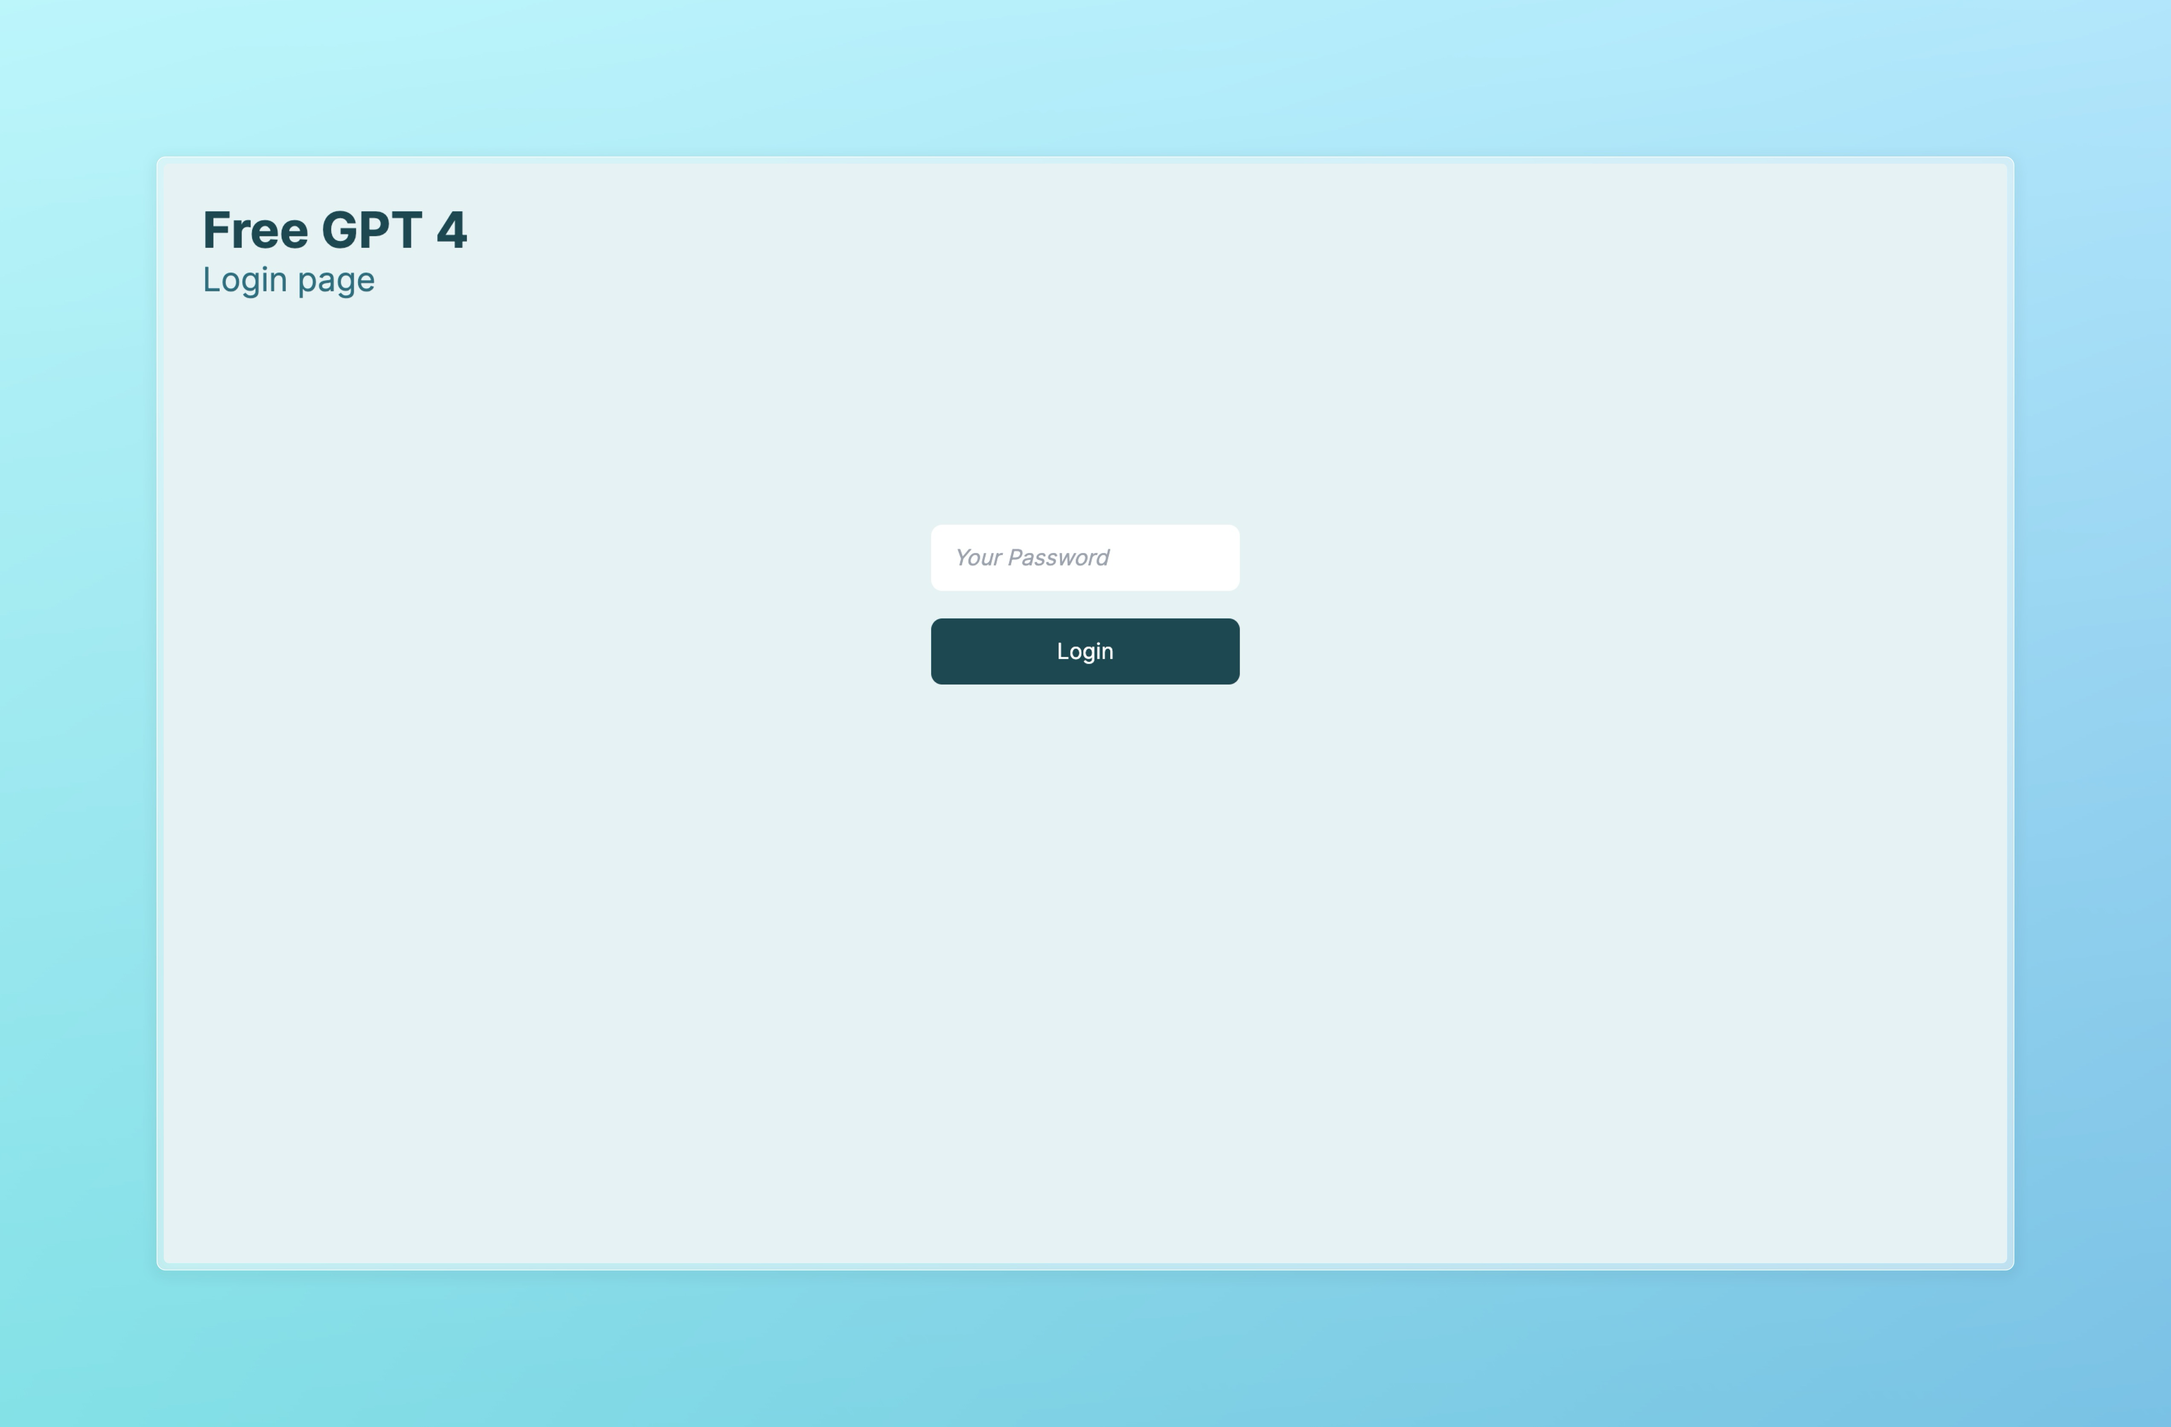
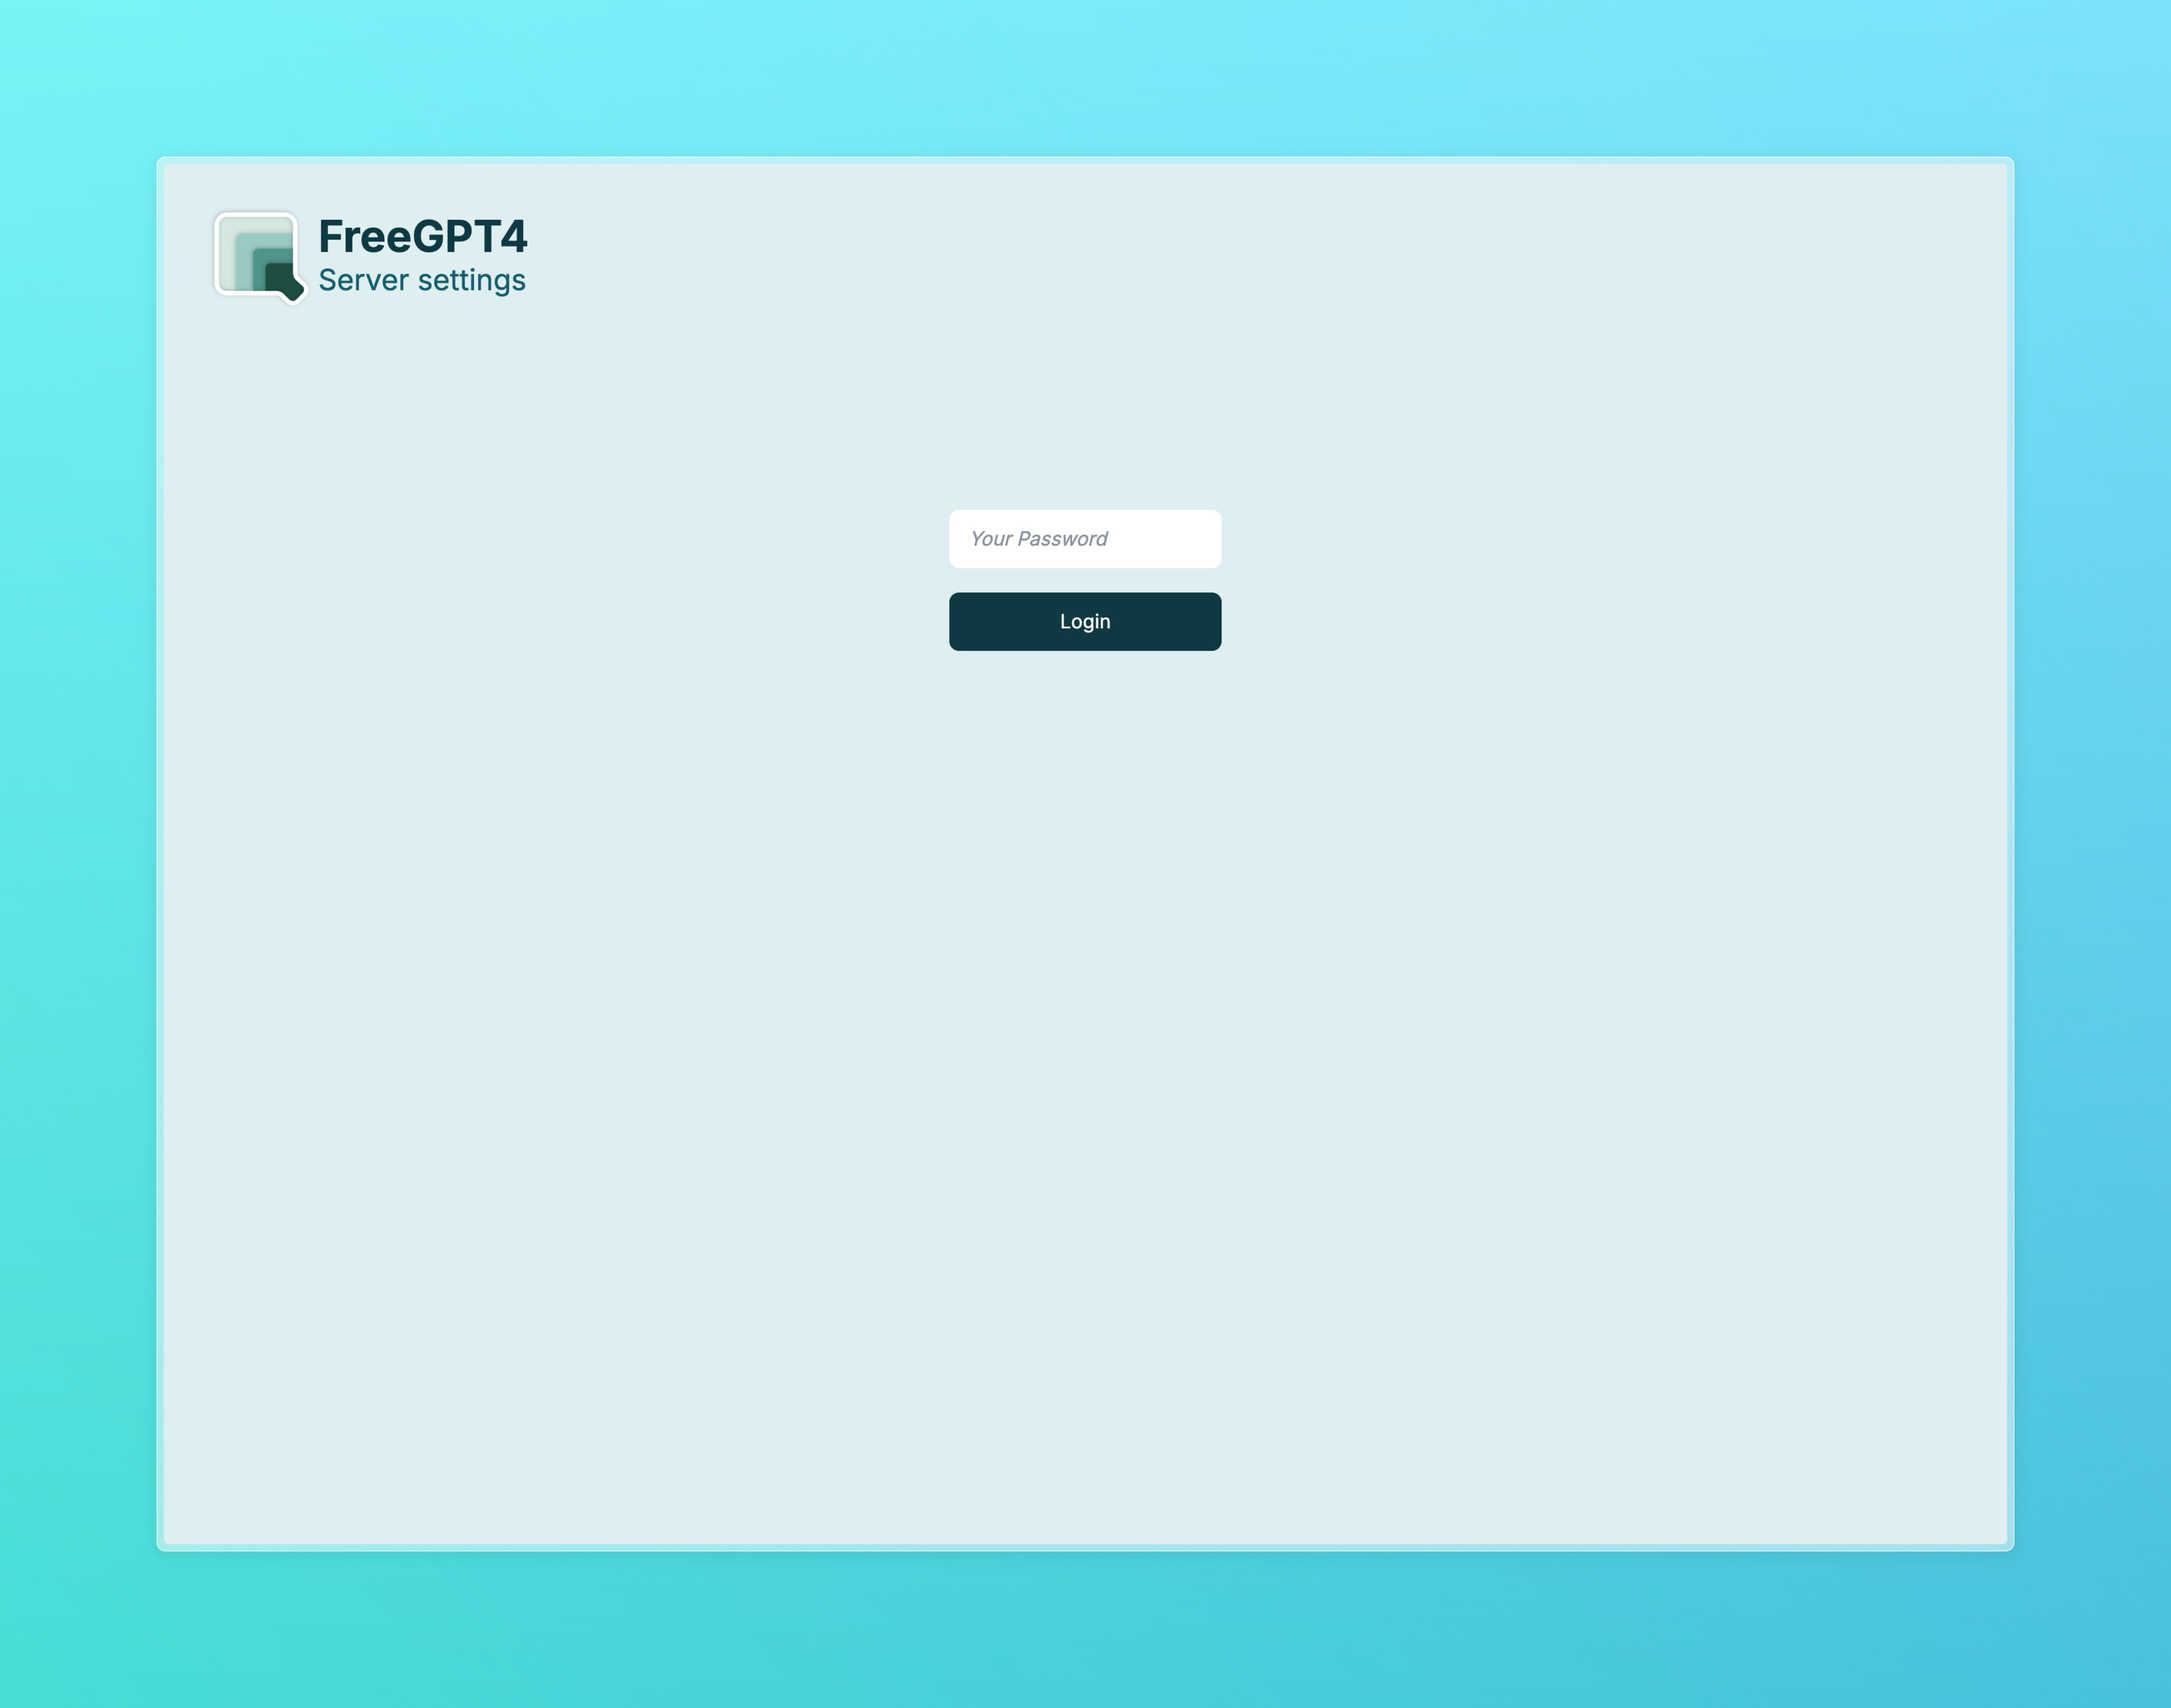
ReadMe update and graphical fixes

diff --git a/src/templates/settings.html b/src/templates/settings.html
@@ -93,7 +93,7 @@
                     {% if data['token']|length > 0 %}
                     <span id="warning_1" class="text-sm blue inline-block">
                     {% else %}
-                    <span id="warning_1" class="text-sm blue inline-block hidden" hidden>
+                    <span id="warning_1" class="text-sm blue inline-block hidden">
                     {% endif %}
                         <b>Your Token: </b> <i id="token_text" onclick="copyTextToClipboardFromName('token');">{{ data['token'] }}</i>
                         <img id="copy_icon" src="{{ url_for('static', filename='img/copy(Gregor_Cresnar).png') }}" width="16" class="inline-block" alt="Copy" onclick="copy('token', this.id, 'Copied!');"/>
@@ -101,16 +101,16 @@
                 </td>
                 <td class="py-1 fond-bold inter darkblue text-lg">
                 {% if data['token'] %}
-                <input type="radio" id="off_rad_3" name="private_mode" value="false" hidden oninput="turnOff('on_3', 'off_3', 'set_3'); hideElement('warning_1'); showElement('warning_0');">
+                <input type="radio" id="off_rad_3" name="private_mode" value="false" hidden oninput="turnOff('on_3', 'off_3', 'set_3'); hideWarning('warning_1'); showElement('warning_0');">
                     <label for="off_rad_3" id="off_3" class="label_gray"><b>OFF</b></label>
                     <p class="inline-block mx-1"> - </p>
-                    <input type="radio" id="on_rad_3" name="private_mode" value="true" hidden oninput="turnOn('on_3', 'off_3', 'set_3'); showElement('warning_1'); hideElement('warning_0'); createToken('token_text')" checked>
+                    <input type="radio" id="on_rad_3" name="private_mode" value="true" hidden oninput="turnOn('on_3', 'off_3', 'set_3'); showWarning('warning_1'); hideElement('warning_0'); createToken('token_text')" checked>
                     <label for="on_rad_3" id="on_3" class="label_green"><b>ON</b></label>
                 {% else %}
-                    <input type="radio" id="off_rad_3" name="private_mode" value="false" hidden oninput="turnOff('on_3', 'off_3', 'set_3'); hideElement('warning_1'); showElement('warning_0');" checked>
+                    <input type="radio" id="off_rad_3" name="private_mode" value="false" hidden oninput="turnOff('on_3', 'off_3', 'set_3'); hideWarning('warning_1'); showElement('warning_0');" checked>
                     <label for="off_rad_3" id="off_3" class="label_red"><b>OFF</b></label>
                     <p class="inline-block mx-1"> - </p>
-                    <input type="radio" id="on_rad_3" name="private_mode" value="true" hidden oninput="turnOn('on_3', 'off_3', 'set_3'); showElement('warning_1'); hideElement('warning_0'); createToken('token_text')">
+                    <input type="radio" id="on_rad_3" name="private_mode" value="true" hidden oninput="turnOn('on_3', 'off_3', 'set_3'); showWarning('warning_1'); hideElement('warning_0'); createToken('token_text')">
                     <label for="on_rad_3" id="on_3" class="label_gray"><b>ON</b></label>
                 {% endif %}
                 </td>

diff --git a/src/templates/login.html b/src/templates/login.html
@@ -14,10 +14,19 @@
 </head>
 <body>
     {% block content %}
-    <div class="m-7">
-        <h1 class="title font-bold inter darkblue text-4xl">Free GPT 4</h1>
-        <h2 class="title blue text-2xl">Login page</h2>
-    </div>
+    <!-- Logo on the left and title on the right -->
+    <table class="w-50 m-7">
+        <tr>
+            <td class="m-7">
+                <img src="{{ url_for('static', filename='img/favicon(Nicoladipa).png') }}" width="96" class="inline-block" alt="Logo">
+            </td>
+            <td class="m-7">
+                <h1 class="title font-bold inter darkblue text-4xl">FreeGPT4</h1>
+                <h2 class="title blue
+                text-2xl">Server settings</h2>
+            </td>
+        </tr>
+    </table>
 
     <div class="flex justify-center w-screen h-96">
         <div class="flex items-center">

diff --git a/src/static/js/script.js b/src/static/js/script.js
@@ -36,6 +36,16 @@ function hideElement(idToHide) {
   element.hidden = true;
 }
 
+// Hides a composed warning
+function hideWarning(idToHide) {
+  document.getElementById(idToHide).classList.add("hidden");
+}
+
+// Shows a composed warning
+function showWarning(idToShow) {
+  document.getElementById(idToShow).classList.remove("hidden");
+}
+
 // Copies the text in the given id to the clipboard
 function copyTextToClipboardFromName(name) {
   var copyText = document.getElementsByName(name)[0].value;

diff --git a/README.md b/README.md
@@ -21,8 +21,8 @@ FreeGPT4-WEB-API is a python server that allows you to have a self-hosted GPT-4 
 ## GUI Preview:
 
 <!-- round angles images -->
-<img src="./img/login.png" width="408" height="290" style="border-radius: 0.4rem;" />
-<img src="./img/settings.png" width="408" height="290" style="border-radius: 0.4rem;" />
+<img src="./img/login.png" style="width:100%; max-width:500px; min-width:200px; aspect-ratio: 4/3" />
+<img src="./img/settings.png" style="width:100%; max-width:500px; min-width:200px; aspect-ratio: 4/3" />
 
 ## Installation
 1. Clone the repository: `git clone https://github.com/aledipa/Free-GPT4-WEB-API.git`
